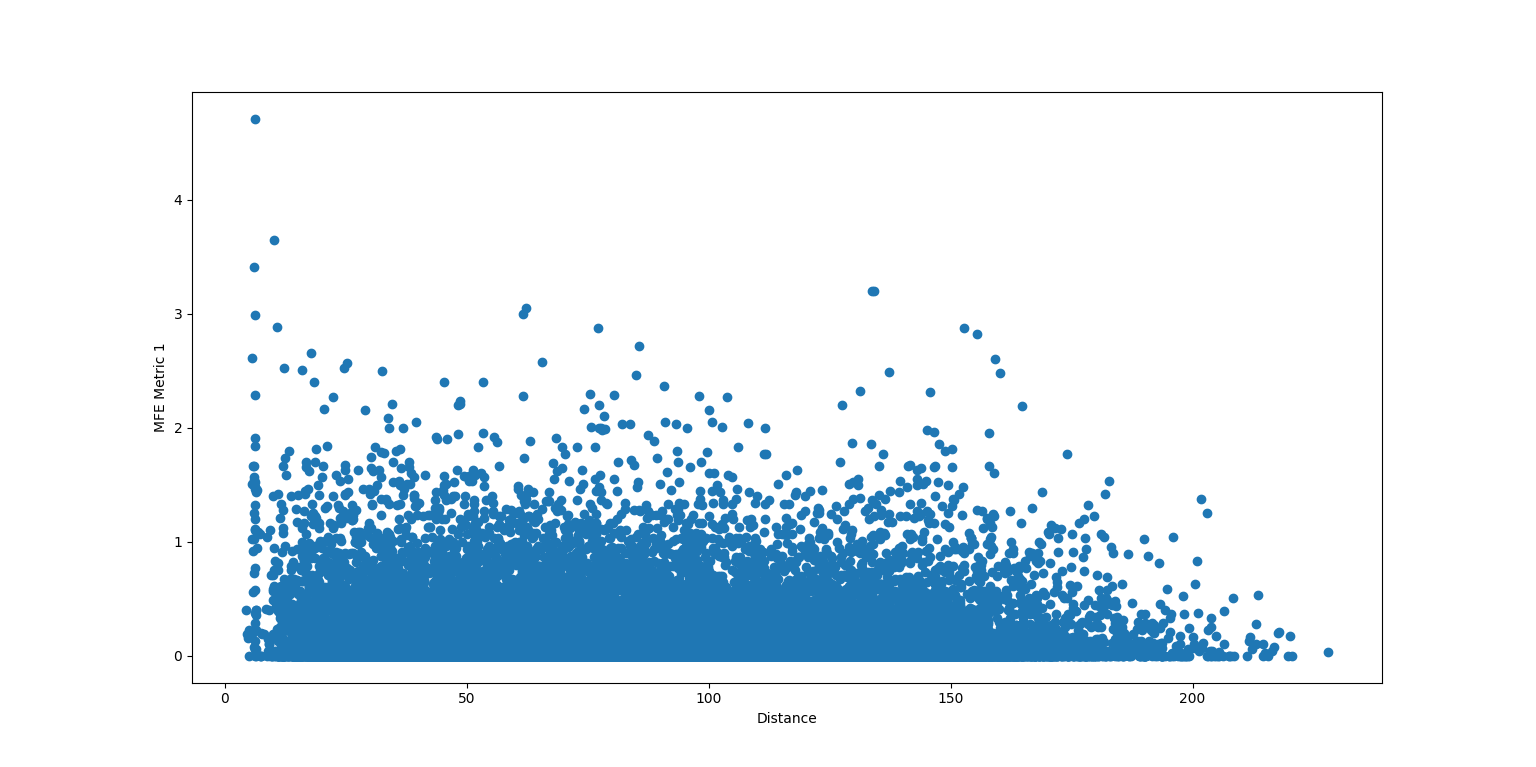
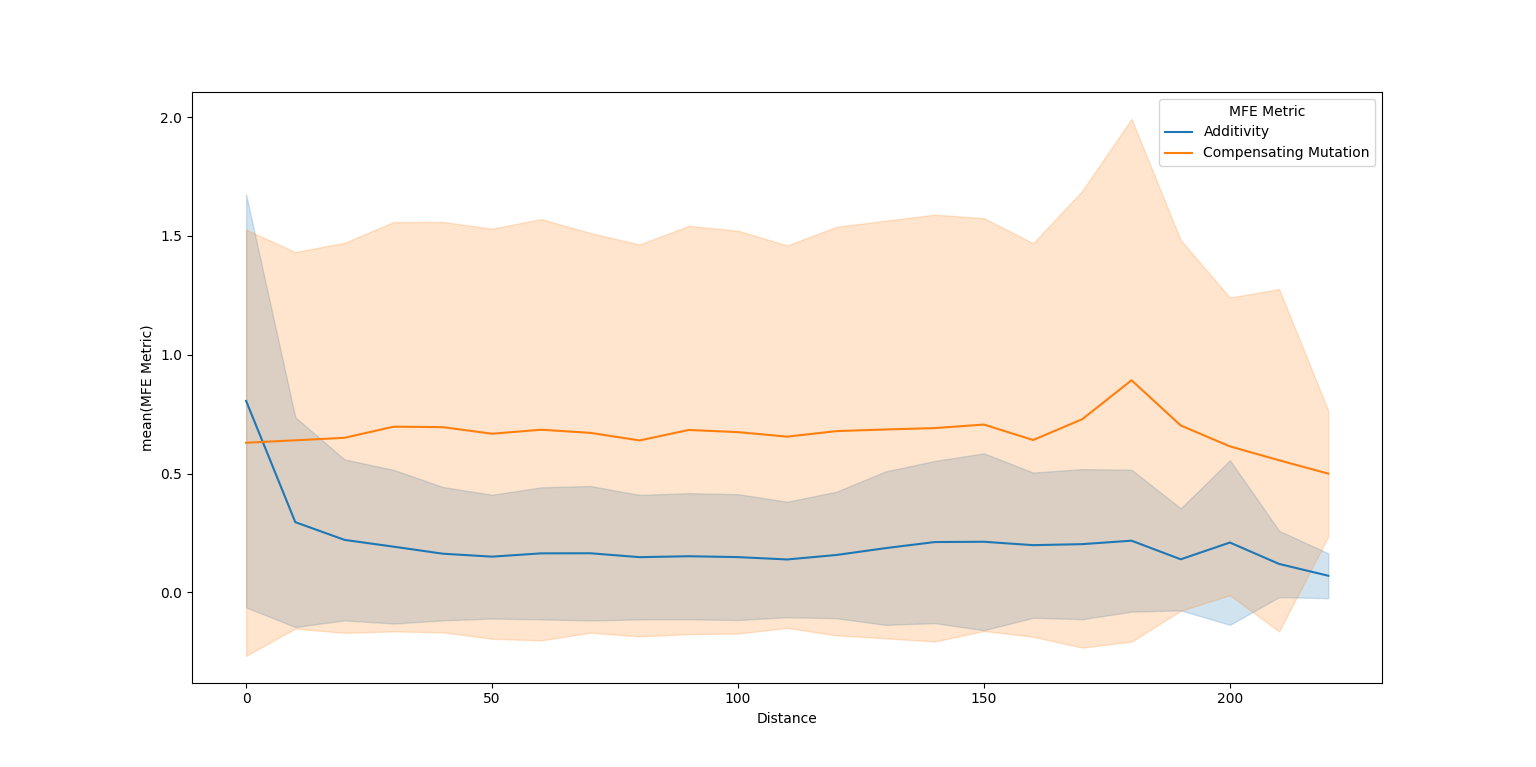
figure stuff

diff --git a/figures.py b/figures.py
@@ -11,6 +11,8 @@ import numpy as np
 from collections import Counter
 import scipy.stats
 import math
+import seaborn as sb
+import pandas as pd
 
 pair_combs = ['AA','AG','AC','AT','GA','GG','GC','GT','CA','CG','CC','CT','TA','TG','TC','TT']
 pairs = ['A','G','C','T']
@@ -146,6 +148,7 @@ def ecoli_figures(type='hist'):
             plt.clf()
 
 
+
     elif type=='loglin':
         for n in range(3):
 
@@ -156,7 +159,7 @@ def ecoli_figures(type='hist'):
             if n == 0:
                 d = 0.1
             else:
-                d = 0.05
+                d = 0.3
                 var = list(filter(lambda x: x>0.001, var))
             bins_input = np.arange(math.floor(min(var)), math.ceil(max(var)), d)
 
@@ -212,17 +215,30 @@ def ecoli_figures(type='hist'):
             plt.show()
 
     elif type=='scatter':
+        data = []
+        metric_labels = ['Additivity', 'Compensating Mutation']
         for n in range(2):
             var = vars[n+1]
             X = vars[0]
             Y = vars[n+1]
-            plt.scatter(X,Y)
-            plt.xlabel('Distance')
-            plt.ylabel(f'MFE Metric {n+1}')
-            plt.show()
 
+            width = 10
+            bin_edges = np.arange(0,230,width)
+
+            for edge_int in range(len(bin_edges)):
+                for i in range(len(Y)):
+                    if bin_edges[edge_int]<=X[i]<(bin_edges[edge_int]+width):
+                        data.append((bin_edges[edge_int], Y[i], metric_labels[n]))
+
+        df = pd.DataFrame(data, columns=['Distance', 'mean(MFE Metric)', 'MFE Metric'])
+        sb.lineplot(x='Distance', y='mean(MFE Metric)', ci='sd', hue='MFE Metric', data=df)
+        plt.show()
+
+    elif type=='old_scatter':
+        for n in range(2):
+            Y=vars[n+1]
     else:
         pass
 
 if __name__=='__main__':
-    ecoli_figures('hist')
+    ecoli_figures('scatter')
